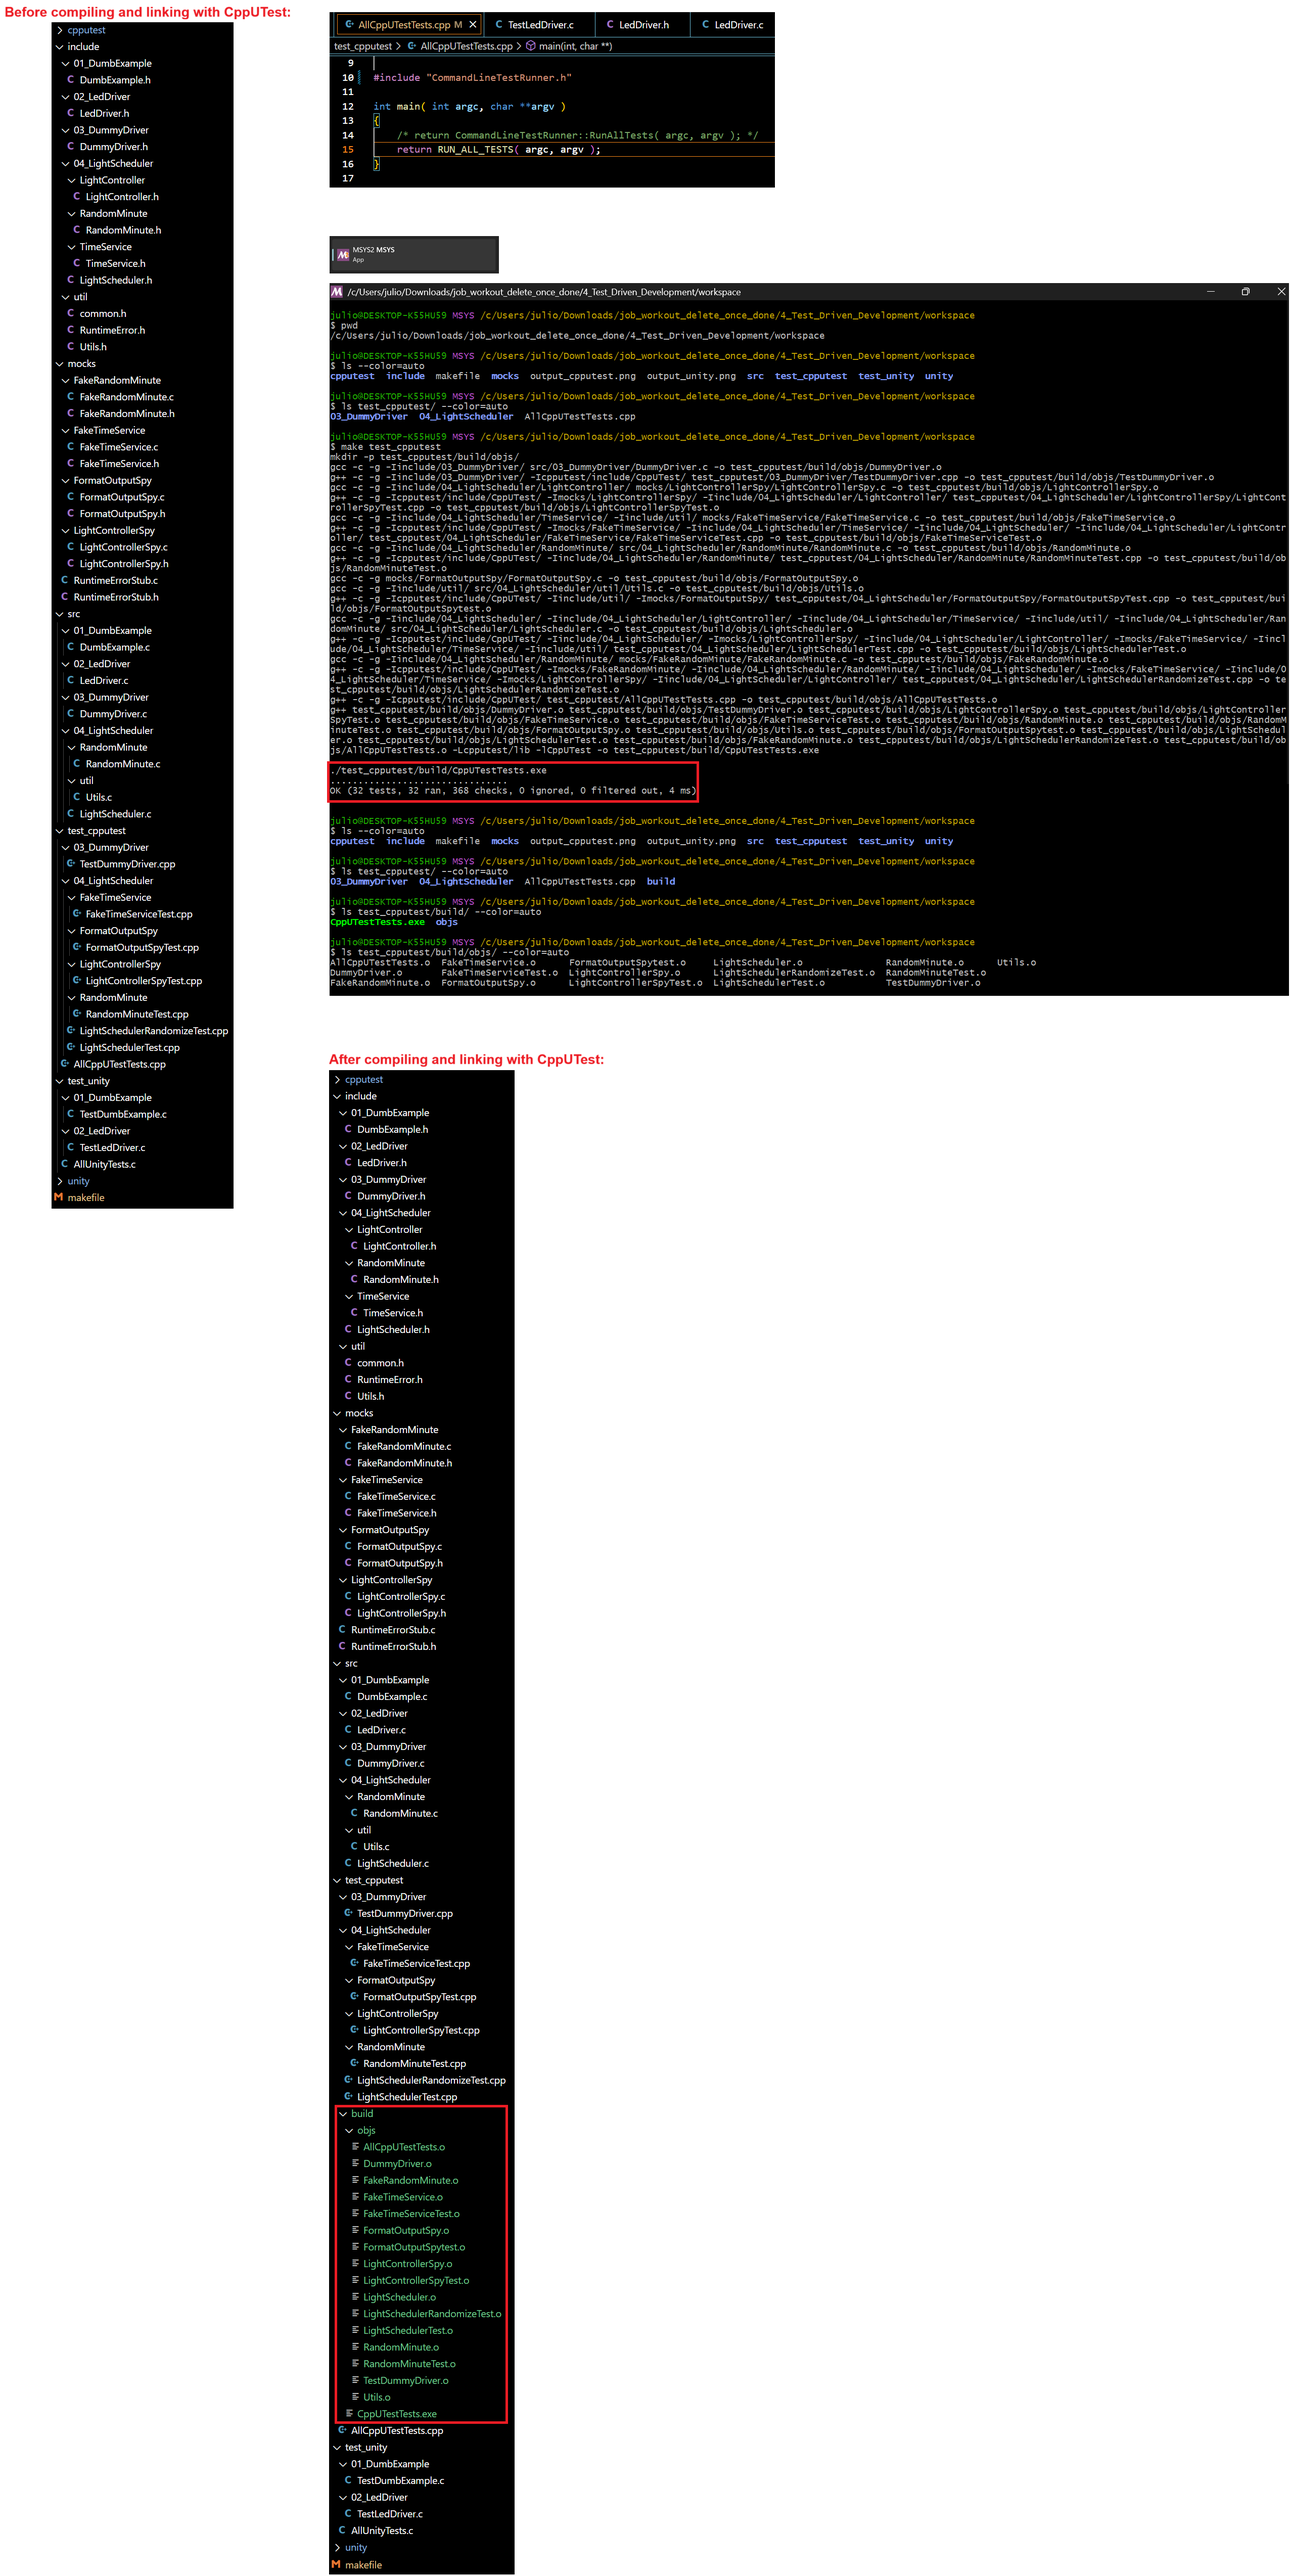
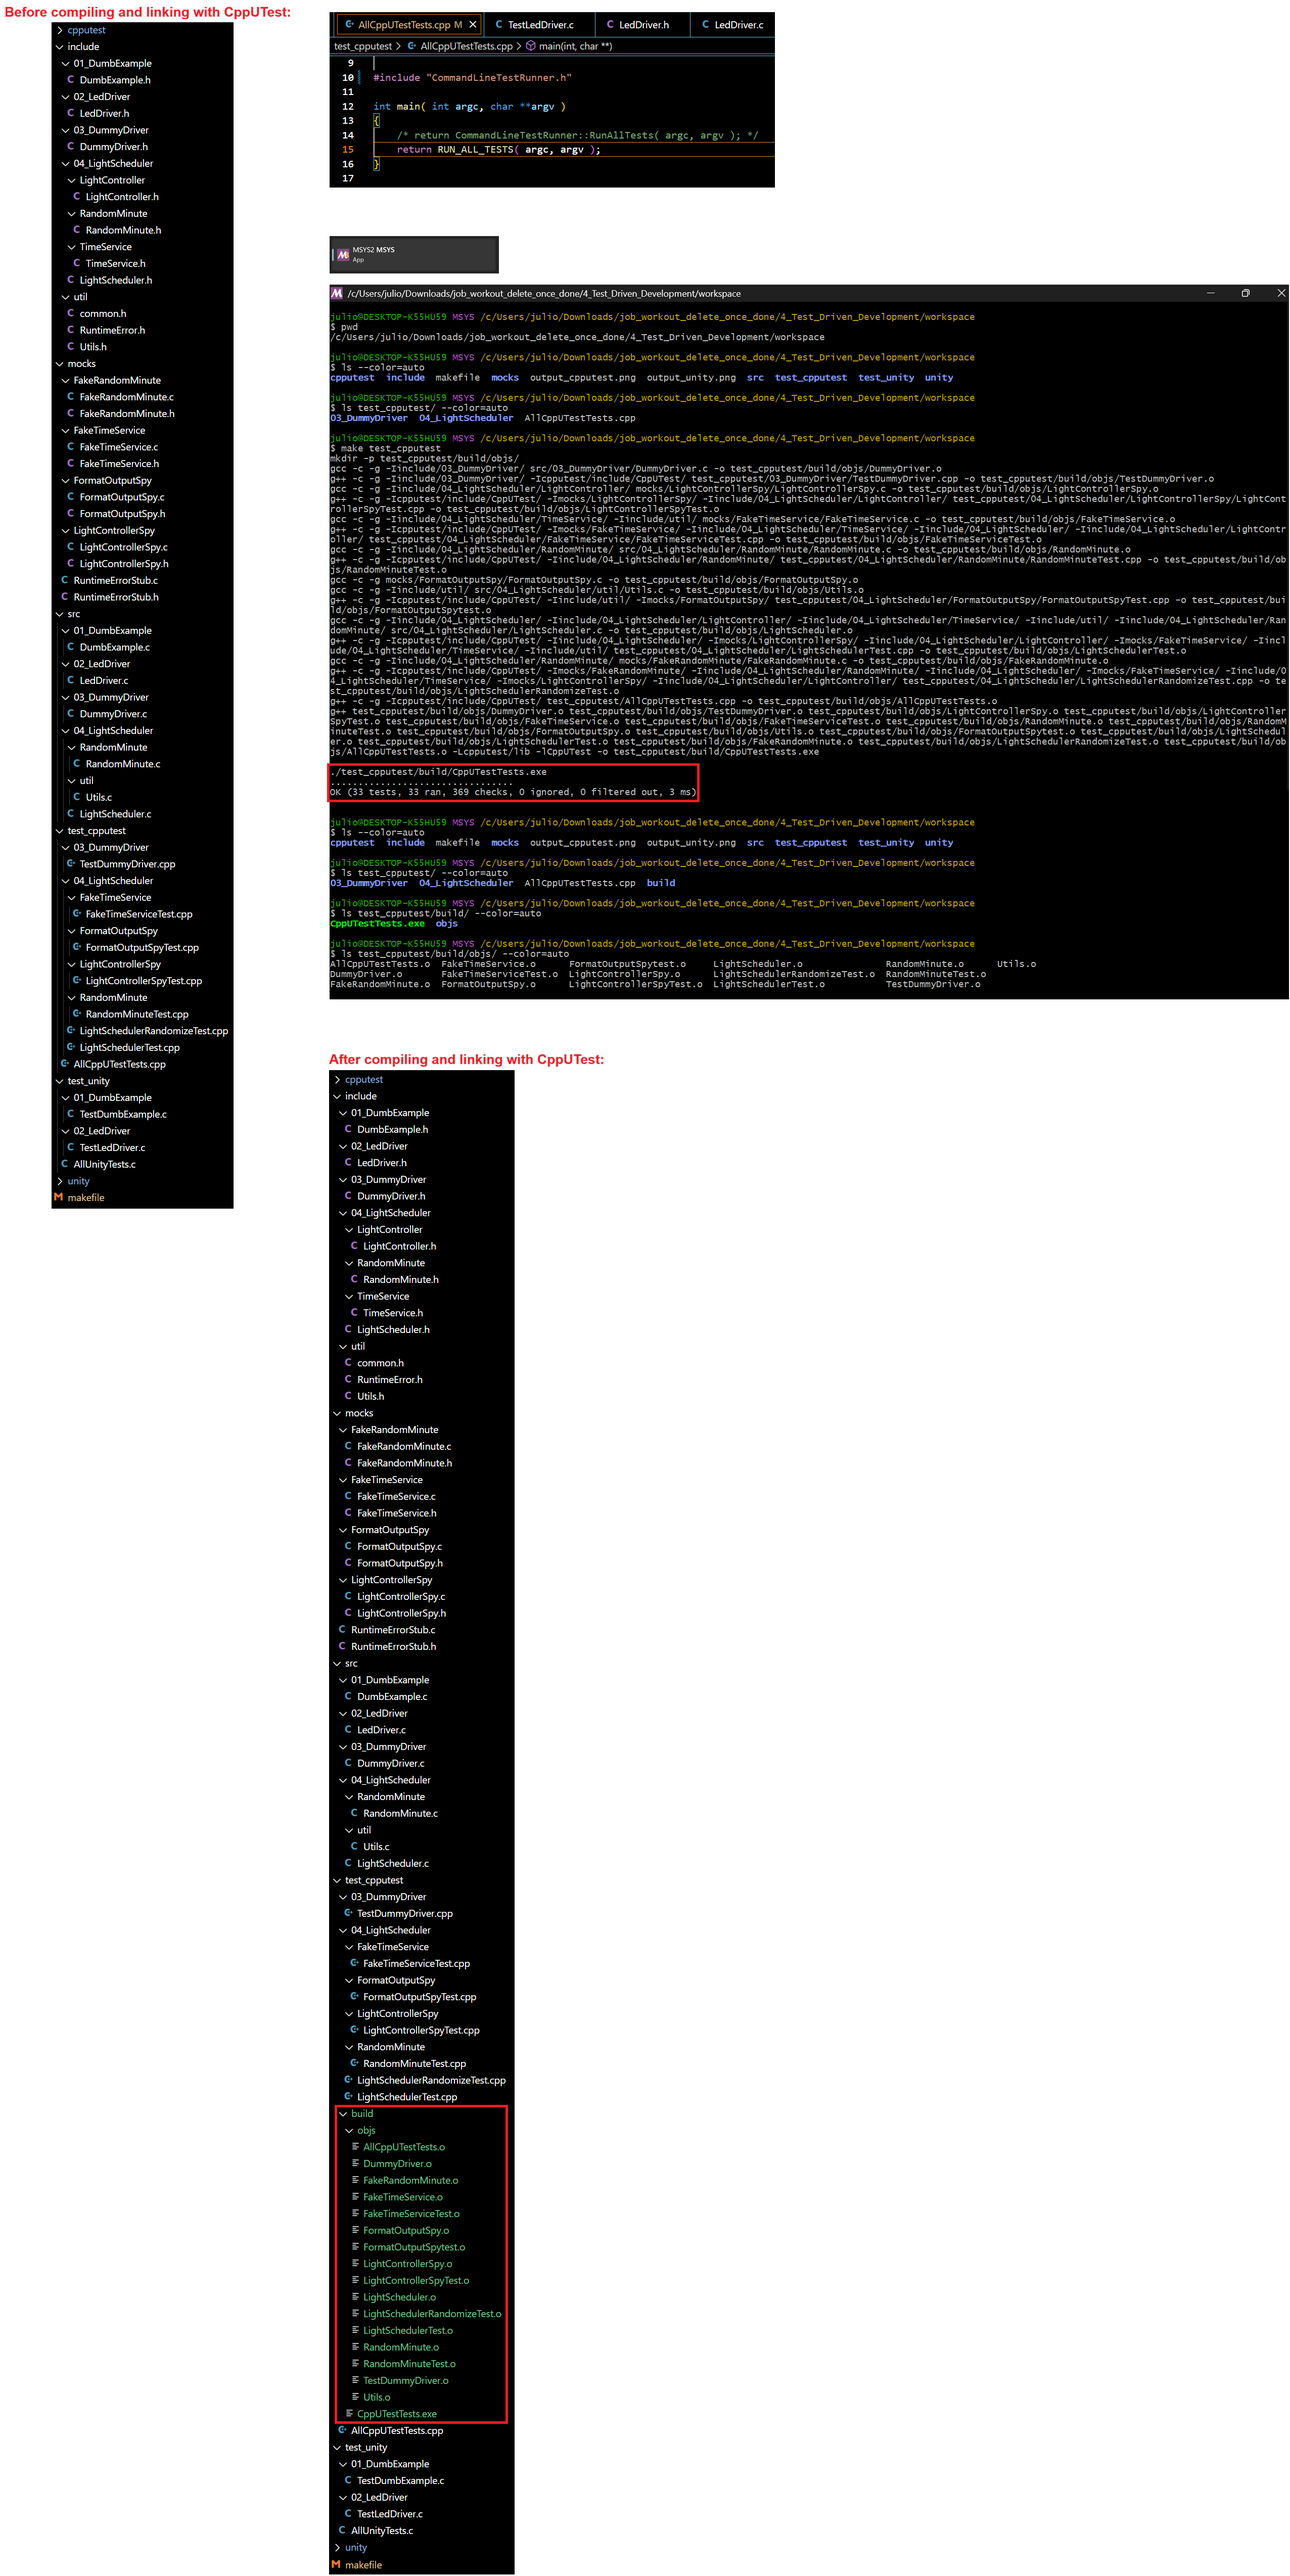
Add FormatOutputSpy PrintMultipleOutputsPastFull test

Changed region(s): [[0.2476, 0.0936, 1.0, 0.4056]]

diff --git a/test_cpputest/04_LightScheduler/FormatOutputSpy/FormatOutputSpyTest.cpp b/test_cpputest/04_LightScheduler/FormatOutputSpy/FormatOutputSpyTest.cpp
@@ -89,17 +89,50 @@ TEST( FormatOutputSpy, PrintMultipleTimes )
     /* Write "Hello" as if it was the real FormatOutput() which uses printf().
        Here the FormatOutputSpy() will catch that and redirect it into the buffer in FormatOutputSpy.c.
        
-       Since the buffer is 25 bytes long and only 5 bytes were written to it,
-       then it has 20 bytes available to write */
+       Since the buffer is 25 bytes long and 5 bytes are written here, it has enough space */
     FormatOutput( "Hello" );
 
     /* Write ", World\n" as if it was the real FormatOutput() which uses printf().
        Here the FormatOutputSpy() will catch that and append it into the buffer in FormatOutputSpy.c.
        
-       Since the buffer is 25 bytes long and it has 20 bytes available,
-       then it still has enough bytes available to store these other 9 characters */
+       Since the buffer is 25 bytes long and 5 bytes were written before, it has 20 bytes available,
+       which is enough to store these other 8 characters */
     FormatOutput( ", World\n" );
 
     /* compare the buffer with the expected result */
     STRCMP_EQUAL( "Hello, World\n", FormatOutputSpy_GetOutput() );
+}
+
+TEST( FormatOutputSpy, PrintMultipleOutputsPastFull )
+{
+    /* In this test, the spy is called multiple times with more output than the spy can capture.
+       This test assures that the output captured is limited to the specified maximum string length */
+
+    /* Allocate (dynamically) space to hold a buffer of 12 bytes
+       (i.e. 12 characters plus one extra character for null termination).
+       This will update the buffer in FormatOutputSpy.c */
+    FormatOutputSpy_Create( 12 );
+
+    /* Write "12345" as if it was the real FormatOutput() which uses printf().
+       Here the FormatOutputSpy() will catch that and redirect it into the buffer in FormatOutputSpy.c.
+       
+       Since the buffer is 12 bytes long and 5 bytes are written here, it has enough space */
+    FormatOutput( "12345" );
+
+    /* Write "67890" as if it was the real FormatOutput() which uses printf().
+       Here the FormatOutputSpy() will catch that and append it into the buffer in FormatOutputSpy.c.
+       
+       Since the buffer is 12 bytes long and 5 bytes were written before, it has 7 bytes available,
+       which is enough to store these other 5 characters */
+    FormatOutput( "67890" );
+
+    /* Write "ABCDEF" as if it was the real FormatOutput() which uses printf().
+       Here the FormatOutputSpy() will catch that and append it into the buffer in FormatOutputSpy.c.
+       
+       Since the buffer is 12 bytes long and up to this point 10 bytes have been written,
+       it only has 2 more bytes available for "AB", not enough space to store the remaining 4 characters (CDEF) */
+    FormatOutput( "ABCDEF" );
+
+    /* compare the buffer with the expected result */
+    STRCMP_EQUAL( "1234567890AB", FormatOutputSpy_GetOutput() );
 }
